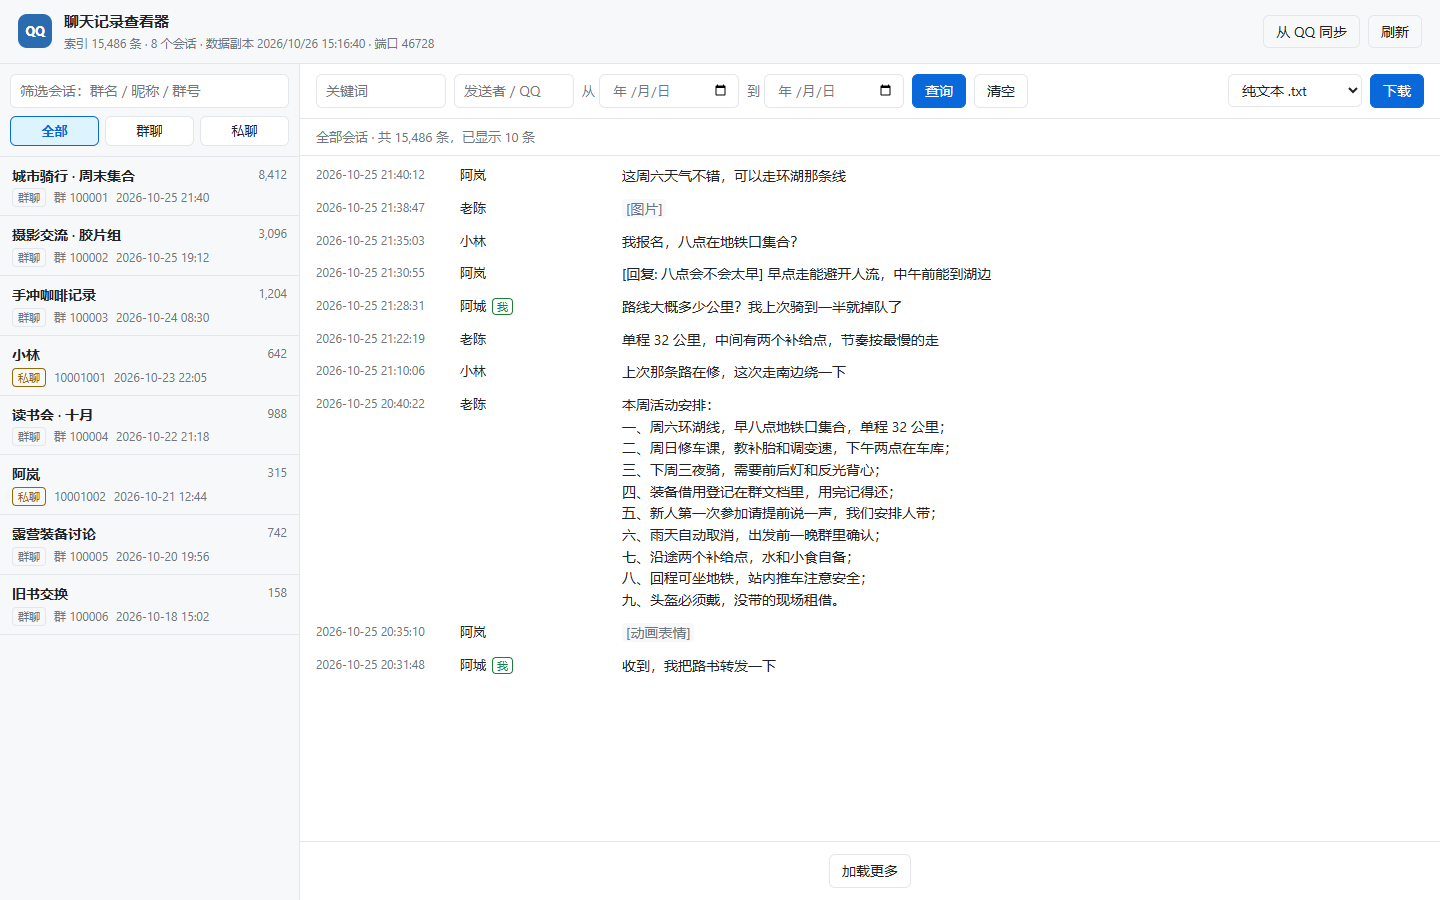
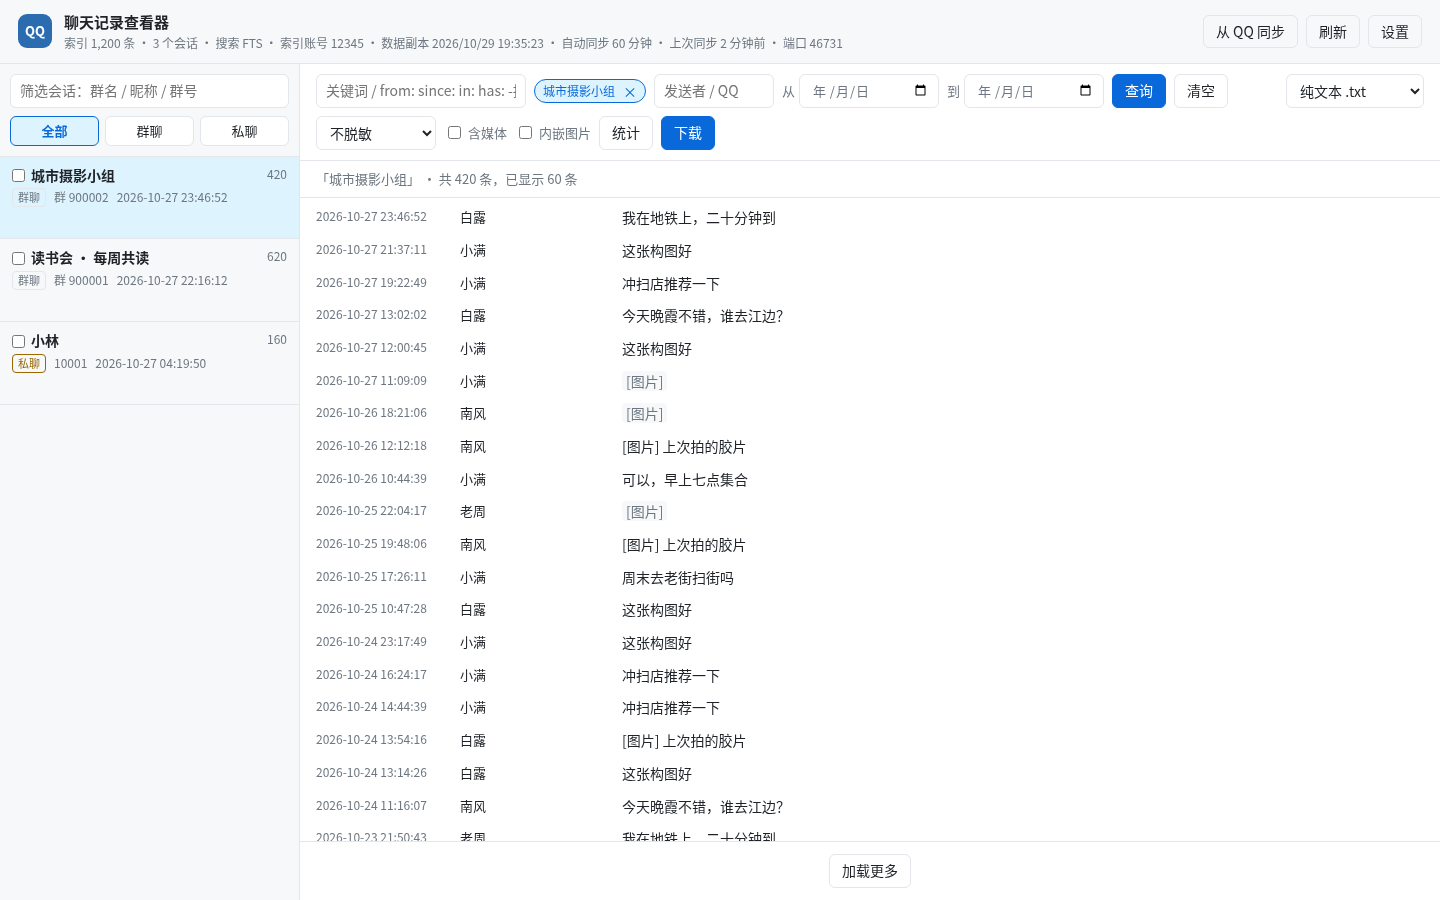
docs: 用虚构数据刷新截图并加入统计面板（0.9.0）

diff --git a/page.html b/page.html
@@ -1220,7 +1220,10 @@
       return
     }
     var monthly = (data.monthly || []).map(function (row) {
-      return { label: row.month.slice(2), count: row.count }
+      // QQ stores a handful of rows with ts=0; they belong in an "unknown"
+      // bucket instead of a bar labelled 1970.
+      var label = row.month.slice(0, 4) < '2000' ? '未知' : row.month.slice(2)
+      return { label: label, count: row.count }
     })
     var maxMonth = 1
     monthly.forEach(function (row) { if (row.count > maxMonth) maxMonth = row.count })

diff --git a/README.md b/README.md
@@ -42,6 +42,10 @@ Read, search, and export NTQQ chat history from a DeepSeek Harness session or fr
 - **多账号索引缓存**：切换 QQ 账号时把上一个账号的索引留在 `workDir` 里（默认保留 2 个），切回时直接增量更新，不再整库重建；
 - **存储与清理**：分类列出插件生成的明文文件及大小（含各账号的缓存索引），二次确认后删除，不碰 QQ 原始数据。
 
+统计面板按当前筛选（会话 / 关键词 / 日期）计算，全部在本机完成：
+
+![统计面板](docs/screenshot-stats.png)
+
 ## 要求
 
 - Windows 10/11 或 Linux（x86_64 / arm64）
@@ -288,7 +292,8 @@ scripts/
 python/              可手工复现的 Python 环境声明（pyproject.toml、.python-version）
 locale/               en / zh 显示元数据
 tests/                Python / Node 回归测试
-docs/screenshot.png   界面截图（虚构数据）
+docs/screenshot.png        界面截图（虚构数据）
+docs/screenshot-stats.png  统计面板截图（虚构数据）
 ```
 
 ## 开发与测试
